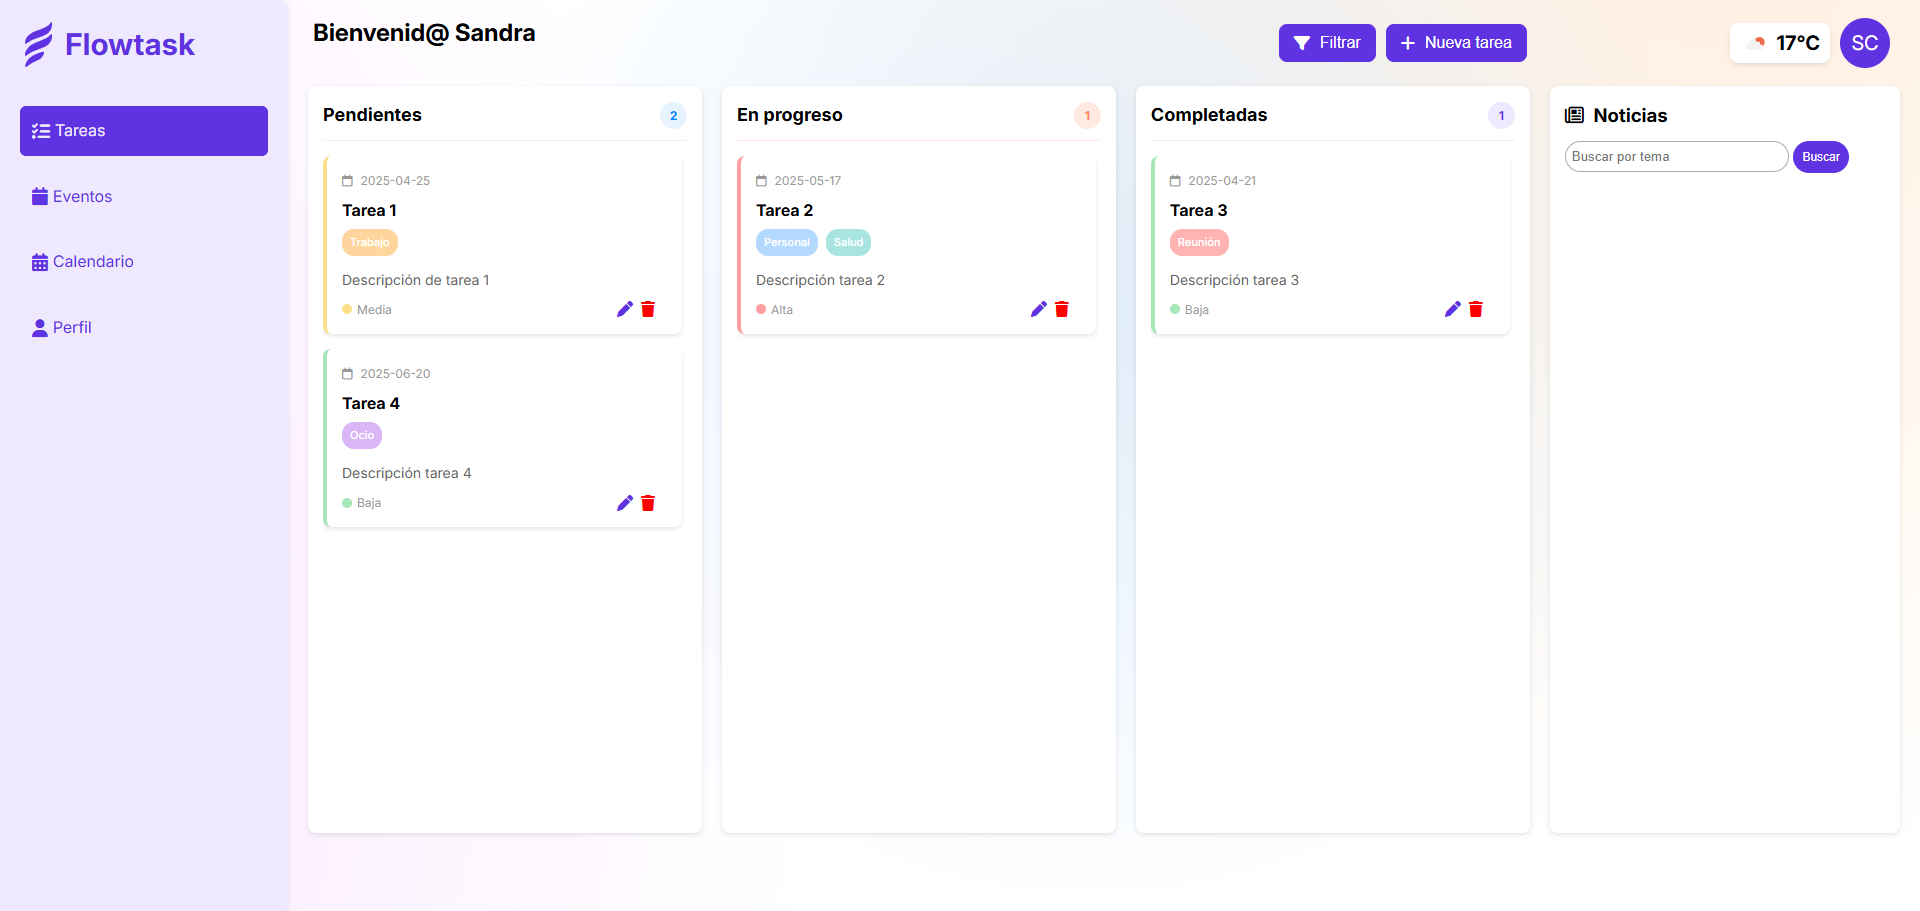
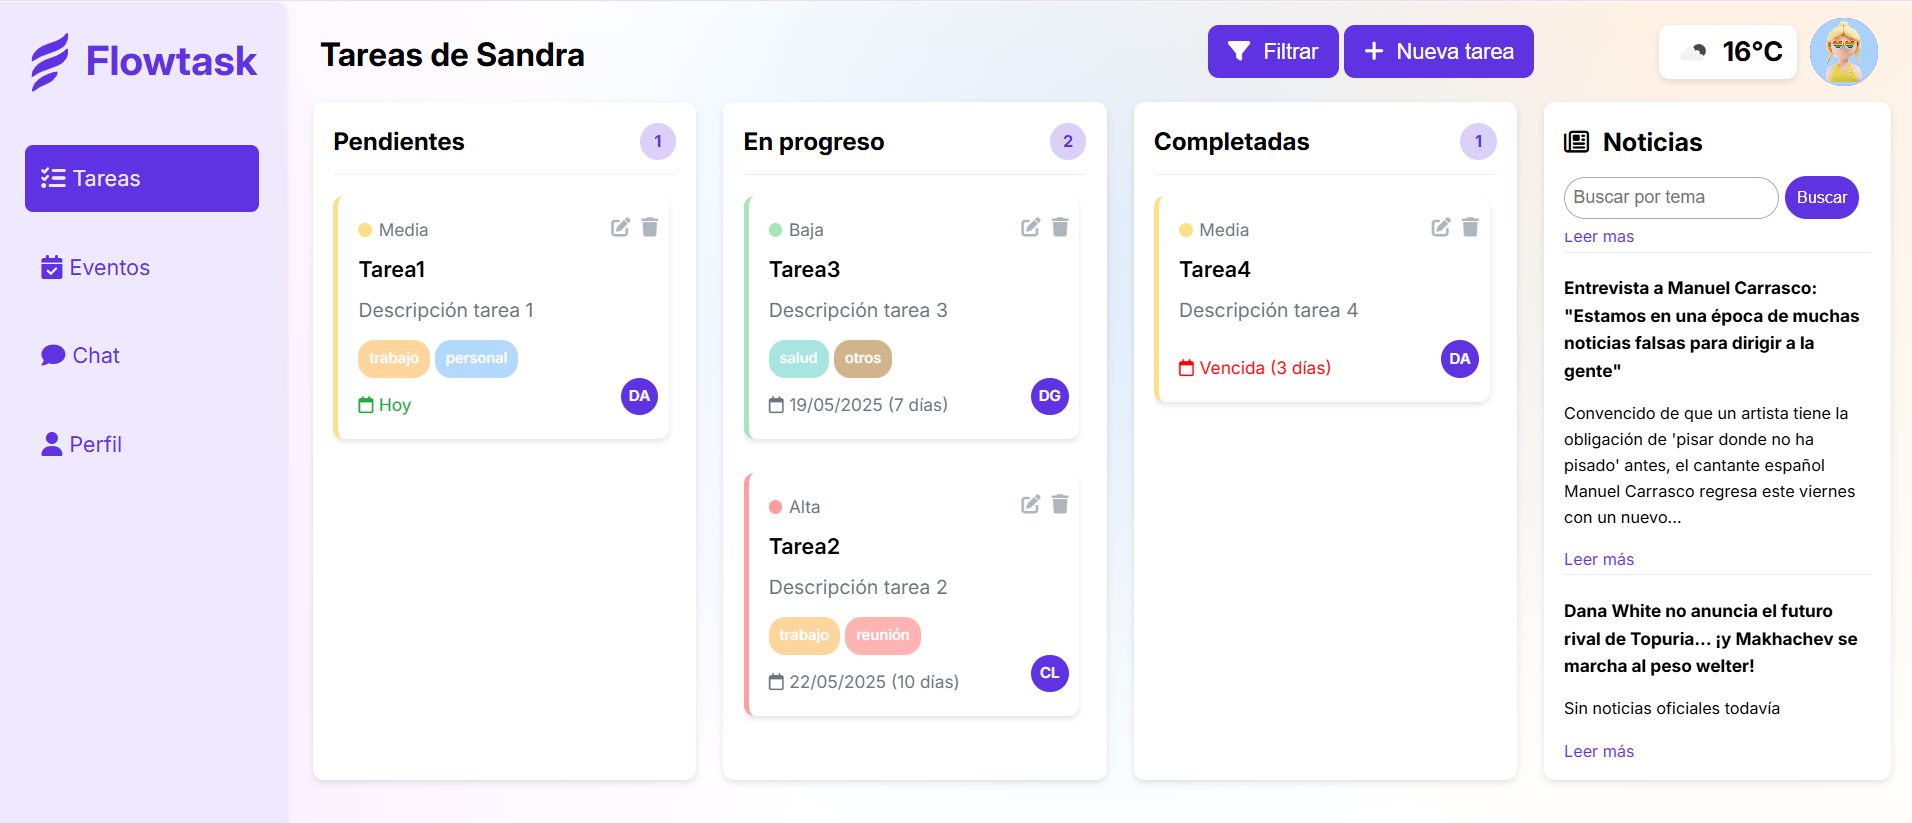
button add

diff --git a/front/js/chat.js b/front/js/chat.js
@@ -686,8 +686,7 @@ const ChatModule = (() => {
       if (isMobileView()) {
         const closeIcon = headerElement.querySelector('.fa-xmark');
         closeIcon?.addEventListener('click', () => {
-          const chatContainer = document.getElementById('contacts-container');
-          // Al hacer click, regresar panel al 0%
+          const chatContainer = document.getElementById('chat-container');
           chatContainer.style.transform = 'translateX(0%)';
           chatContainer.classList.remove('chat-container-mobile-active');
         });
@@ -776,34 +775,33 @@ const ChatModule = (() => {
     }).format(date);
   };
 
-const updateConversationWithNewMessage = (conversationId, message) => {
-  // Buscar la conversación existente
-  let conversation = conversations.find(c => c._id === conversationId);
+  const updateConversationWithNewMessage = (conversationId, message) => {
+    // Buscar la conversación existente
+    let conversation = conversations.find(c => c._id === conversationId);
 
-  // Si no existe la conversación, agregarla
-  if (!conversation) {
-    conversation = {
-      _id: conversationId,
-      participants: [], // opcional si ya fue rellenado antes
-      lastMessage: null
-    };
-    conversations.push(conversation);
-  }
+    // Si no existe la conversación, agregarla
+    if (!conversation) {
+      conversation = {
+        _id: conversationId,
+        participants: [], // opcional si ya fue rellenado antes
+        lastMessage: null
+      };
+      conversations.push(conversation);
+    }
 
-  // Actualizar el último mensaje de la conversación
-  conversation.lastMessage = message;
+    // Actualizar el último mensaje de la conversación
+    conversation.lastMessage = message;
 
-  // Reordenar las conversaciones para que la más reciente esté al principio
-  conversations.sort((a, b) => {
-    const dateA = new Date(a.lastMessage?.createdAt || 0);
-    const dateB = new Date(b.lastMessage?.createdAt || 0);
-    return dateB - dateA;
-  });
+    // Reordenar las conversaciones para que la más reciente esté al principio
+    conversations.sort((a, b) => {
+      const dateA = new Date(a.lastMessage?.createdAt || 0);
+      const dateB = new Date(b.lastMessage?.createdAt || 0);
+      return dateB - dateA;
+    });
 
-  // Volver a renderizar las conversaciones
-  renderUsersWithConversations(conversations);
-};
-
+    // Volver a renderizar las conversaciones
+    renderUsersWithConversations(conversations);
+  };
 
   const displayMessage = message => {
     const messagesContainer = document.getElementById('chat-messages');

diff --git a/front/js/events.js b/front/js/events.js
@@ -13,6 +13,7 @@ const eventsContainer = document.getElementById('events-container');
 const modal = document.getElementById('event-modal');
 const deleteModal = document.getElementById('delete-modal');
 const addEventBtn = document.getElementById('addEvent');
+const addEventMenuBtn = document.getElementById('addEventMenu');
 const cancelBtn = document.getElementById('cancel-button');
 const saveBtn = document.getElementById('save-button');
 const confirmDeleteBtn = document.getElementById('confirm-delete');
@@ -60,6 +61,9 @@ const getCurrentUser = async () => {
     if (currentUser.role === 'admin') {
       addEventBtn.style.display = 'flex';
       roleFilterBtn.style.display = 'flex';
+      if (isMobileView()) {
+        addEventMenuBtn.style.display = 'flex';
+      }
     }
   } catch (error) {
     console.error('Error al obtener usuario:', error);
@@ -578,6 +582,10 @@ const setupEventListeners = () => {
   // Botón para agregar evento
   addEventBtn.addEventListener('click', openNewEventModal);
 
+  if (addEventMenuBtn) {
+    addEventMenuBtn.addEventListener('click', openNewEventModal);
+  }
+
   // Botones del modal de evento
   cancelBtn.addEventListener('click', () => modal.classList.add('hidden'));
   saveBtn.addEventListener('click', saveEvent);
@@ -650,3 +658,5 @@ const formatDateTimeForInput = dateString => {
 const capitalizeFirstLetter = string => {
   return string.charAt(0).toUpperCase() + string.slice(1);
 };
+
+const isMobileView = () => window.innerWidth <= 768;

diff --git a/front/js/main.js b/front/js/main.js
@@ -82,6 +82,9 @@ const getCurrentUser = async () => {
 
     if (currentUser.role === 'admin') {
       addTaskBtn.style.display = 'flex';
+      if (isMobileView()) {
+        addTaskMenuBtn.style.display = 'flex';
+      }
     }
   } catch (error) {
     localStorage.removeItem('token');
@@ -725,3 +728,5 @@ const formatDateForInput = dateString => {
 const capitalizeFirstLetter = string => {
   return string.charAt(0).toUpperCase() + string.slice(1);
 };
+
+const isMobileView = () => window.innerWidth <= 768;
